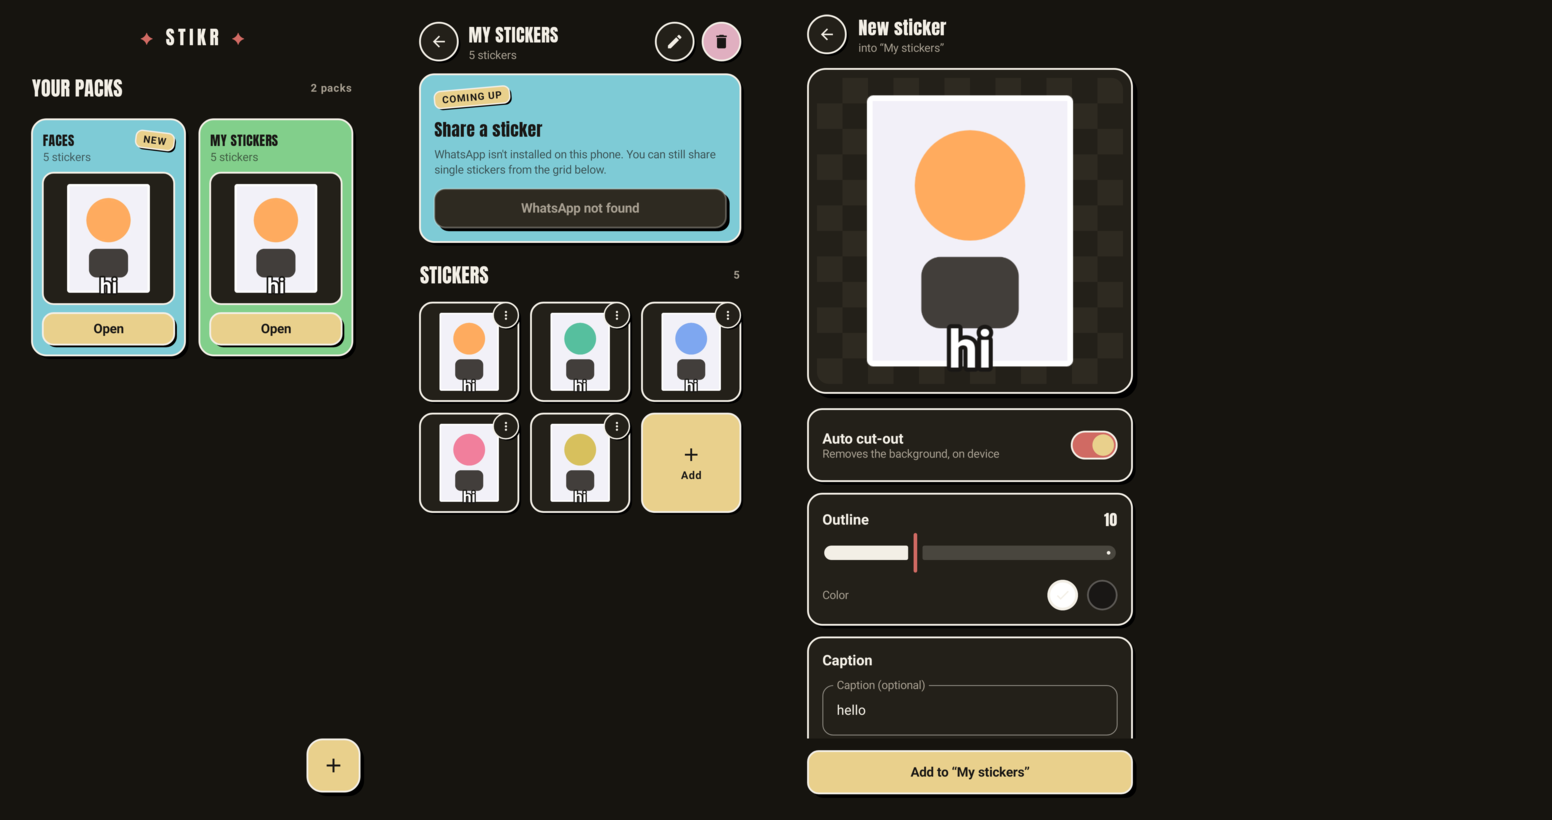
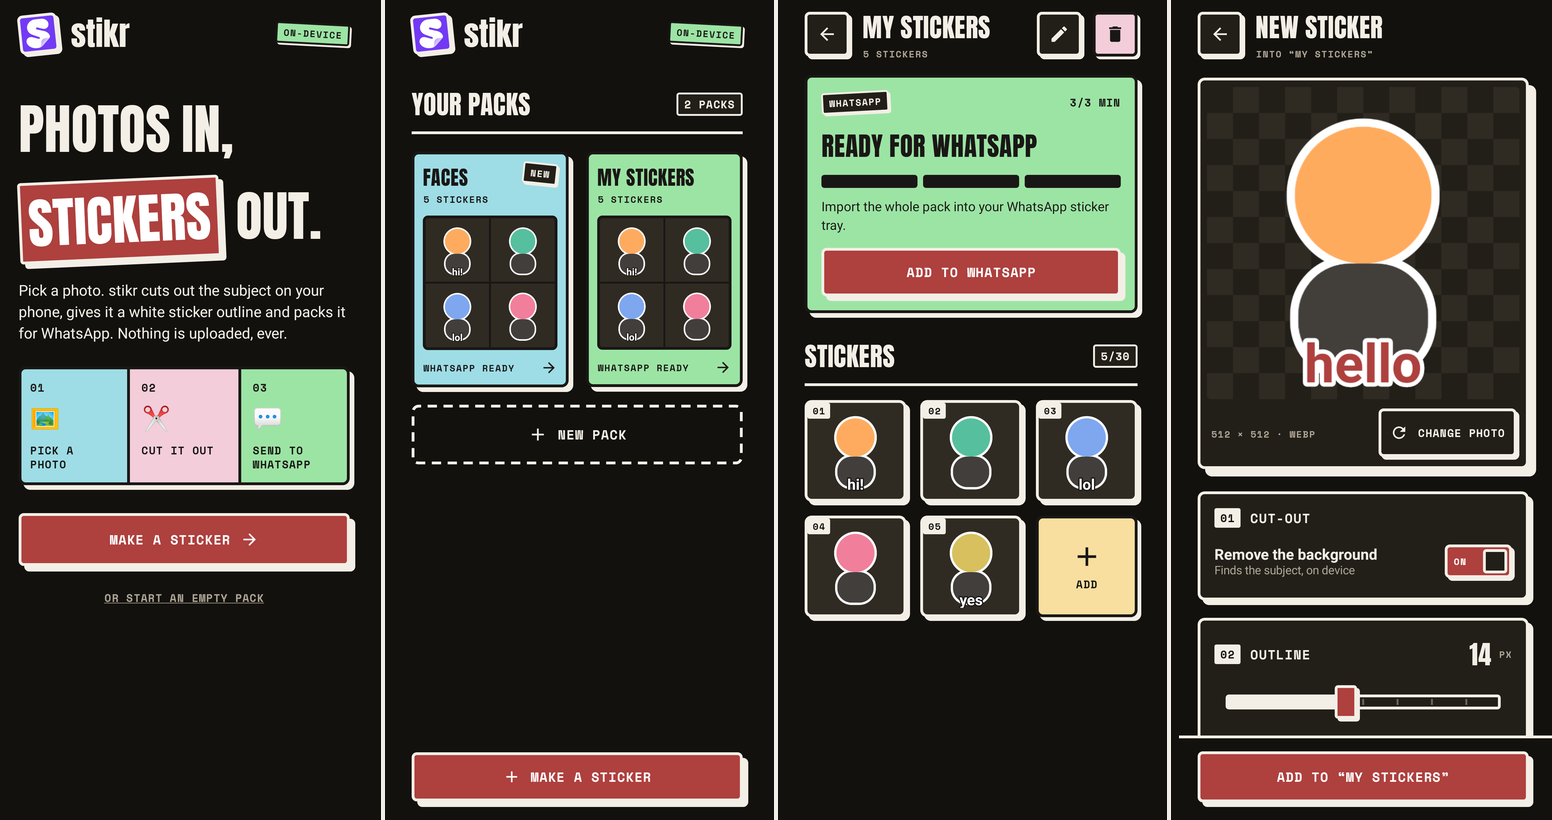
docs: refresh screenshots for the brutalist UI
Rebuilds docs/theme/screens-{light,dark}.png (and the site copies) from the
new renders: home empty, home packs, a WhatsApp-ready pack and the editor,
whole screens at the same 1552x820 size so the pinned bottom actions show.
Adds a dark WhatsApp-ready pack render for parity and make-screens.py so the
composites can be rebuilt.

diff --git a/app/src/test/java/com/stikr/app/ui/ScreenRenderTest.kt b/app/src/test/java/com/stikr/app/ui/ScreenRenderTest.kt
@@ -269,6 +269,13 @@ class ScreenRenderTest {
     }
 
     @Test
+    fun packScreenWhatsAppDark() {
+        installWhatsApp()
+        packScreen(dark = true, pack = packFixture("pack-1", "My stickers"))
+        capture("pack-whatsapp-dark")
+    }
+
+    @Test
     fun packFewWhatsAppDark() {
         installWhatsApp()
         packScreen(dark = true, pack = packFixture("pack-few", "Dogs", count = 2))

diff --git a/docs/theme/make-screens.py b/docs/theme/make-screens.py
@@ -1,0 +1,33 @@
+"""Builds docs/theme/screens-{light,dark}.png from the ScreenRenderTest output.
+
+Run from the repository root after
+  ./gradlew testDebugUnitTest --tests "com.stikr.app.ui.ScreenRenderTest"
+then copy both images to docs/site/assets/. Needs Pillow.
+
+Each image is 1552x820: home (empty), home (packs), a WhatsApp-ready pack and
+the editor, whole screens scaled to 820px tall, split by ink rules.
+"""
+from PIL import Image, ImageDraw
+
+SOURCE = "app/build/ui-renders"
+WIDTH, HEIGHT, GAP, RULE = 1552, 820, 20, 4
+THEMES = {
+    "light": ("#F1EDE7", "#191715"),
+    "dark": ("#13110D", "#F1EDE7"),
+}
+SCREENS = ["home-empty", "home-packs", "pack-whatsapp", "editor"]
+
+for theme, (paper, ink) in THEMES.items():
+    screen_width = (WIDTH - GAP * (len(SCREENS) - 1)) // len(SCREENS)
+    sheet = Image.new("RGB", (WIDTH, HEIGHT), paper)
+    draw = ImageDraw.Draw(sheet)
+    x = 0
+    for index, screen in enumerate(SCREENS):
+        render = Image.open(f"{SOURCE}/{screen}-{theme}.png").convert("RGB")
+        sheet.paste(render.resize((screen_width, HEIGHT), Image.LANCZOS), (x, 0))
+        x += screen_width
+        if index < len(SCREENS) - 1:
+            centre = x + GAP // 2
+            draw.rectangle((centre - RULE // 2, 0, centre + RULE // 2 - 1, HEIGHT), fill=ink)
+            x += GAP
+    sheet.save(f"docs/theme/screens-{theme}.png", optimize=True)
